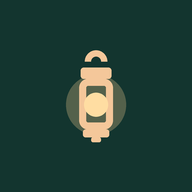
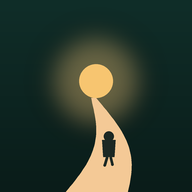
Add files via upload

Changed region(s): [[0.0, 0.1875, 1.0, 1.0]]

diff --git a/index.html b/index.html
@@ -10,8 +10,8 @@
 <meta name="apple-mobile-web-app-capable" content="yes" />
 <meta name="mobile-web-app-capable" content="yes" />
 <meta name="apple-mobile-web-app-status-bar-style" content="black-translucent" />
-<meta name="apple-mobile-web-app-title" content="The Lantern" />
-<title>The Lantern — Find Help Near You</title>
+<meta name="apple-mobile-web-app-title" content="Where Do I Turn?" />
+<title>Where Do I Turn? — Find Help Near You</title>
 <link rel="preconnect" href="https://fonts.googleapis.com">
 <link rel="preconnect" href="https://fonts.gstatic.com" crossorigin>
 <link href="https://fonts.googleapis.com/css2?family=Fraunces:opsz,wght@9..144,500;9..144,600&family=Inter:wght@400;500;600;700&display=swap" rel="stylesheet">
@@ -151,7 +151,7 @@
 <body>
 <header>
   <div class="wrap">
-    <div class="brand"><svg class="mark" viewBox="0 0 24 24" width="24" height="24" fill="none" aria-hidden="true"><path d="M9.5 3.2h5" stroke="#f4c79a" stroke-width="1.6" stroke-linecap="round"/><path d="M12 3.2v2.4" stroke="#f4c79a" stroke-width="1.6" stroke-linecap="round"/><rect x="7.2" y="5.6" width="9.6" height="2.8" rx="1.1" stroke="#f4c79a" stroke-width="1.6"/><rect x="8.2" y="8.4" width="7.6" height="9.4" rx="2.6" stroke="#f4c79a" stroke-width="1.6"/><path d="M8.6 20.4h6.8" stroke="#f4c79a" stroke-width="1.6" stroke-linecap="round"/><circle cx="12" cy="13.4" r="2.1" fill="#f4c79a" opacity=".9"/></svg><h1>The Lantern</h1></div>
+    <div class="brand"><svg class="mark" viewBox="0 0 24 24" width="24" height="24" fill="none" aria-hidden="true"><circle cx="17.5" cy="6.5" r="3" fill="#f3ba5f"/><path d="M4.5 21 Q7.5 14 12 12 T17.5 9" stroke="#f4c79a" stroke-width="2.2" stroke-linecap="round"/><circle cx="8.7" cy="16.3" r="1.7" fill="#f4c79a"/></svg><h1>Where Do I Turn?</h1></div>
     <p>Real help, close to you. Find food, shelter, recovery meetings, animal care, and welcoming spaces nearby.</p>
     <span class="danger-line">If you are in immediate danger, call <a href="tel:911">911</a>.</span>
     <p class="privacy-line"><strong>Private and free.</strong> No sign-up, no account, and nothing you do here is saved. For extra privacy, open this in a private or incognito tab.</p>
@@ -186,7 +186,7 @@
 <div class="wrap wrap-main">
 
   <div id="installBar" class="install-bar" hidden>
-    <span class="it" id="installText">Add The Lantern to your phone for one-tap access.</span>
+    <span class="it" id="installText">Add this app to your phone for one-tap access.</span>
     <span class="install-actions">
       <button id="installBtn" class="btn btn-primary" type="button" style="padding:8px 14px">Add</button>
       <button id="installDismiss" class="install-x" type="button" aria-label="Dismiss">✕</button>
@@ -231,7 +231,7 @@
 
   <section class="block card">
     <div class="pad">
-      <h2 class="sec">Share The Lantern</h2>
+      <h2 class="sec">Share this tool</h2>
       <p class="sec-note">Send it to someone who needs it, or print the code for a flyer or front desk.</p>
       <div class="loc-row">
         <button class="btn btn-primary" id="shareBtn" type="button">🔗 Share link</button>
@@ -240,8 +240,8 @@
       </div>
       <div class="loc-status" id="shareMsg"></div>
       <div class="qr-box" id="qrWrap" hidden>
-        <img id="qrImg" alt="QR code to open The Lantern" />
-        <div class="sec-note" style="margin-top:8px">Scan with a phone camera to open The Lantern.</div>
+        <img id="qrImg" alt="QR code to open Where Do I Turn?" />
+        <div class="sec-note" style="margin-top:8px">Scan with a phone camera to open Where Do I Turn?</div>
       </div>
     </div>
   </section>
@@ -486,7 +486,7 @@ function buildVCard(p){
   if(tel) lines.push("TEL;TYPE=WORK,VOICE:"+tel);
   if(addr) lines.push("ADR;TYPE=WORK:;;"+vEsc(addr)+";;;;");
   if(url) lines.push("URL:"+url);
-  lines.push("NOTE:Saved from The Lantern (lanternhelp.org)");
+  lines.push("NOTE:Saved from Where Do I Turn? (lanternhelp.org)");
   lines.push("END:VCARD");
   return lines.join("\r\n");
 }
@@ -546,14 +546,14 @@ function placeCard(p, idx){
 /* sharing */
 const SITE_URL="https://lanternhelp.org/";
 function shareURL(){ return SITE_URL; }
-const SHARE_TEXT="The Lantern, free help near you for food, shelter, recovery meetings, and crisis support: ";
+const SHARE_TEXT="Where Do I Turn? Free help near you for food, shelter, recovery meetings, and crisis support: ";
 function shareMsg(t){ const s=$("shareMsg"); s.className="loc-status set"; s.textContent=t; }
 function shareWarn(t){ const s=$("shareMsg"); s.className="loc-status"; s.textContent=t; }
 
 $("shareBtn").addEventListener("click", async ()=>{
   const url=shareURL();
   if(!url){ shareWarn("Put the page online first, then the share link will point to it."); return; }
-  if(navigator.share){ try{ await navigator.share({title:"The Lantern", text:"Free help near you.", url}); }catch(e){} return; }
+  if(navigator.share){ try{ await navigator.share({title:"Where Do I Turn?", text:"Free help near you.", url}); }catch(e){} return; }
   try{ await navigator.clipboard.writeText(url); shareMsg("Link copied. Paste it into a text or email."); }
   catch(e){ shareWarn(url); }
 });
@@ -583,7 +583,7 @@ if(!keyReady()) $("keyNote").style.display="block";
   const standalone=()=> (window.matchMedia && window.matchMedia("(display-mode: standalone)").matches) || window.navigator.standalone===true;
   const isIOS=()=> /iphone|ipad|ipod/i.test(navigator.userAgent) && !window.MSStream;
   function show(){ if(!standalone() && !dismissed && location.protocol!=="file:") bar.hidden=false; }
-  window.addEventListener("beforeinstallprompt", e=>{ e.preventDefault(); deferred=e; txt.textContent="Add The Lantern to your phone for one-tap access."; btn.style.display=""; show(); });
+  window.addEventListener("beforeinstallprompt", e=>{ e.preventDefault(); deferred=e; txt.textContent="Add this app to your phone for one-tap access."; btn.style.display=""; show(); });
   btn.addEventListener("click", async ()=>{ if(!deferred) return; deferred.prompt(); await deferred.userChoice; deferred=null; bar.hidden=true; });
   x.addEventListener("click", ()=>{ bar.hidden=true; dismissed=true; });
   if(isIOS() && !standalone()){ txt.textContent="To install: tap the Share icon, then Add to Home Screen."; btn.style.display="none"; show(); }

diff --git a/sw.js b/sw.js
@@ -3,7 +3,7 @@
    signal. Category search still needs a connection, but the lifelines do not.
    Bump CACHE if you change the icons or manifest; HTML updates pick up
    automatically because navigations are served network-first. */
-const CACHE = "lantern-v2";
+const CACHE = "wdit-v1";
 const CORE = [
   "./",
   "./index.html",